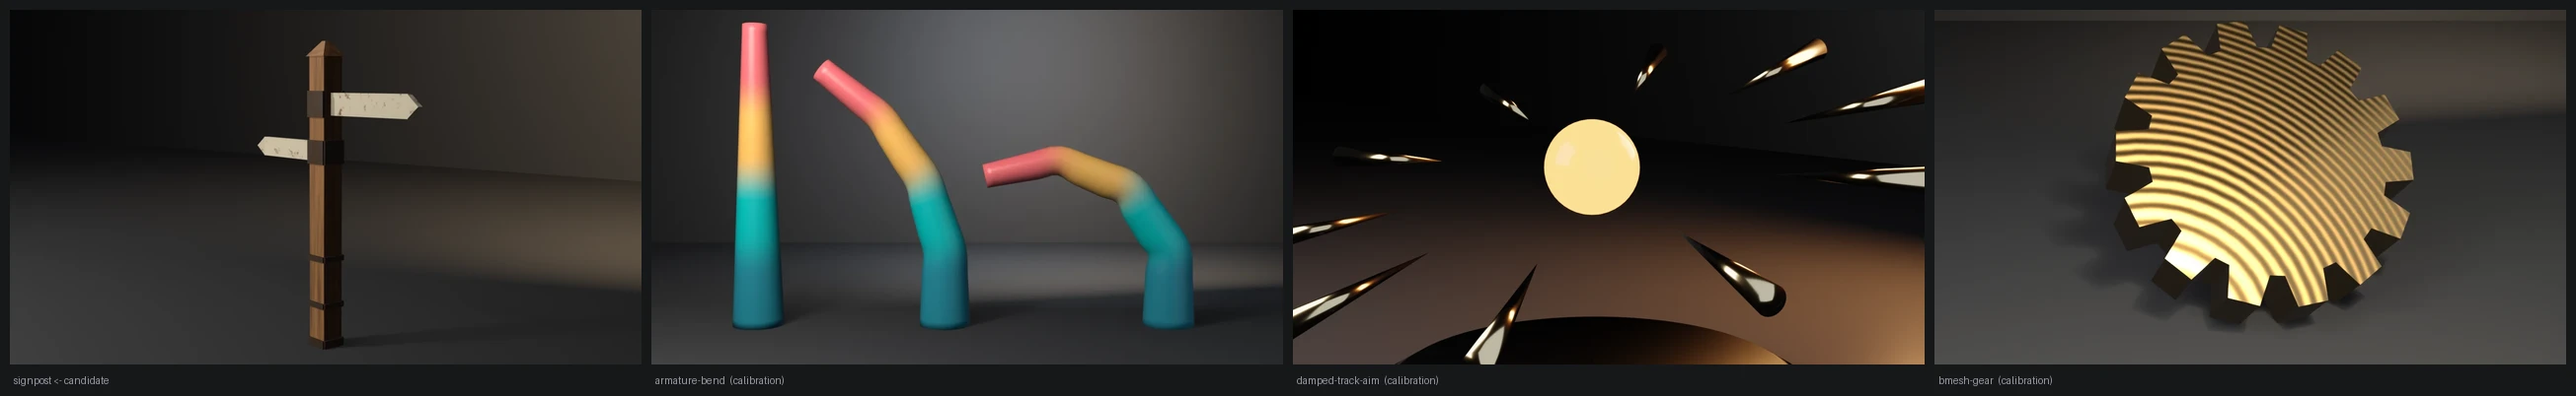
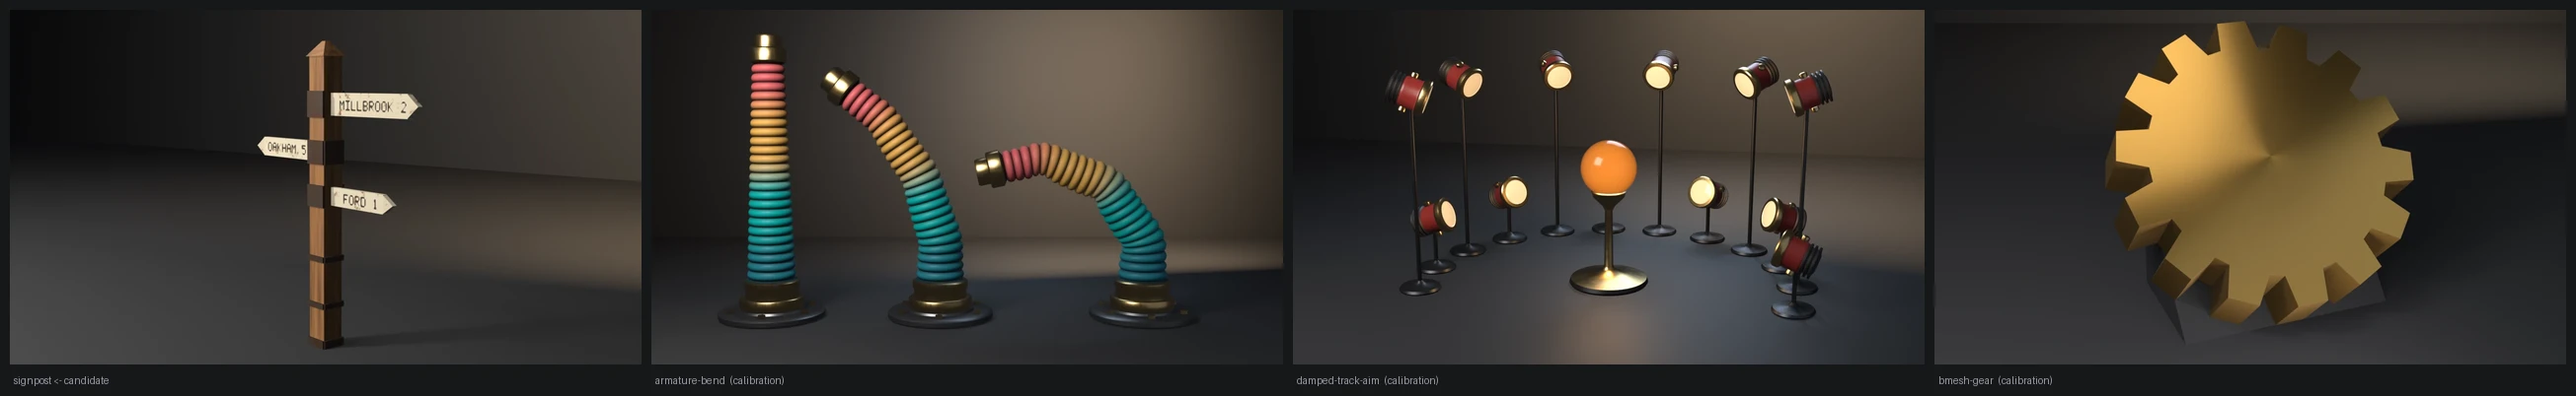
fix(showcase): redesign signpost as a lettered three-finger crossroads post
The signpost read as one bare post with two blank boards. It now carries
a third finger (FORD, 0.46 m, lower, pointing back the way of the first),
and each board's destination and distance is painted on its front face:
MILLBROOK 2, OAKHAM 5, FORD 1. The lettering is surface only. A 5x7 bitmap
font is painted into a small image covering the boards in object space,
cubic-filtered and thresholded so the glyphs round into brush strokes,
masked to the front (-Y) faces and worn with the paint. The image node is
deselected so the normal bake never targets it. The key and fill lights
are raised to bring the hero into the calibration luma band.

Adds asset_sheet.py SELECT rows for signpost, shipping-crate and
hitching-post, which had none, so the asset-sheet gate can run on them.

Evidence (live runs, local):
- .scratch/blender-5.2.1-windows-x64/blender.exe (Blender 5.2.1 LTS) and
  .scratch/blender-4.5.11-windows-x64/blender.exe (Blender 4.5.11 LTS):
  default exit 0 on both. base_tris 432 (declared 320-480; was 376),
  mat faces metal 126 / board 33 / wood 60, bbox (1.2600, 0.1420, 1.5510)
  unchanged, collider 56 tris (<= 180), boards=3 board_gap 0.005
  strap_gap 0.003 board_dy 0.028, hygiene all zero. LOD r1/r2:
  4.5.11 0.5000/0.2176, 5.2.1 0.4537/0.1620.
- Falsifiers, identical on both versions: --skip-decimate 9,
  --stray-vert 15, --lift-z 16, --short-shoe 16, --gap-board 17
  (gap 0.115), --float-strap 18 (gap 0.056), --yaw-boards 19 (dy 0.0936).
[…]

diff --git a/showcase/signpost/signpost.py b/showcase/signpost/signpost.py
@@ -1,7 +1,7 @@
 """Game-ready timber signpost — a showcase piece, not an example.
 
 Asserts budget conformance of a procedural fingerboard signpost (post,
-two painted boards, iron shoe and straps) after composing shipped
+three painted boards lettered with destinations, iron shoe and straps) after composing shipped
 pipeline pieces: bmesh construction, UVs, three materials, high-to-low
 normal bake, LOD chain, convex collider, Unity glTF export.
 
@@ -53,6 +53,18 @@ BOARD_H_A = 0.112
 BOARD_H_B = 0.100
 BOARD_A = (1.24, 0.62, 1.0)
 BOARD_B = (1.00, 0.54, -1.0)
+# Third finger, lower and shorter, pointing back the way of the first: a
+# crossroads post reads as a junction, not a pair of arrows.
+BOARD_H_C = 0.092
+BOARD_C = (0.78, 0.46, 1.0)
+
+# Painted destinations, one per board (A, B, C). Rendered from a 5x7 bitmap
+# font into a small lettering image sampled in object space on the boards'
+# front (-Y) faces; cubic filtering plus a threshold rounds the pixel
+# glyphs into brush strokes. Surface only: no geometry, no budget moves.
+BOARD_TEXT = ("MILLBROOK 2", "OAKHAM 5", "FORD 1")
+LETTER_PX = 0.0072            # metres per font pixel
+LETTER_REGION = (-0.66, 0.66, 0.68, 1.34)   # object-space x0, x1, z0, z1
 TIP_LEN = 0.070
 TIP_BITE = 0.004
 BAND_Z = 0.22
@@ -250,6 +262,71 @@ def pack_uvs(bm, margin=0.08):
             )
 
 
+def board_specs():
+    """(z, length, sign, height, thickness) per finger board, A B C."""
+    return (
+        (BOARD_A[0], BOARD_A[1], BOARD_A[2], BOARD_H_A, BOARD_T),
+        (BOARD_B[0], BOARD_B[1], BOARD_B[2], BOARD_H_B, BOARD_T * 0.92),
+        (BOARD_C[0], BOARD_C[1], BOARD_C[2], BOARD_H_C, BOARD_T * 0.90),
+    )
+
+
+# 5x7 bitmap glyphs, top row first; only the characters BOARD_TEXT uses.
+GLYPHS = {
+    "A": ("01110", "10001", "10001", "11111", "10001", "10001", "10001"),
+    "B": ("11110", "10001", "10001", "11110", "10001", "10001", "11110"),
+    "D": ("11110", "10001", "10001", "10001", "10001", "10001", "11110"),
+    "F": ("11111", "10000", "10000", "11110", "10000", "10000", "10000"),
+    "H": ("10001", "10001", "10001", "11111", "10001", "10001", "10001"),
+    "I": ("11111", "00100", "00100", "00100", "00100", "00100", "11111"),
+    "K": ("10001", "10010", "10100", "11000", "10100", "10010", "10001"),
+    "L": ("10000", "10000", "10000", "10000", "10000", "10000", "11111"),
+    "M": ("10001", "11011", "10101", "10101", "10001", "10001", "10001"),
+    "O": ("01110", "10001", "10001", "10001", "10001", "10001", "01110"),
+    "R": ("11110", "10001", "10001", "11110", "10100", "10010", "10001"),
+    "1": ("00100", "01100", "00100", "00100", "00100", "00100", "01110"),
+    "2": ("01110", "10001", "00001", "00010", "00100", "01000", "11111"),
+    "5": ("11111", "10000", "11110", "00001", "00001", "10001", "01110"),
+    " ": ("00000",) * 7,
+}
+
+
+def lettering_image():
+    """Paint BOARD_TEXT into a greyscale image covering LETTER_REGION.
+
+    Each board's text is centred on the part of the board clear of its
+    post collar; one image pixel is one font pixel (LETTER_PX metres).
+    """
+    x0, x1, z0, z1 = LETTER_REGION
+    w = int(round((x1 - x0) / LETTER_PX))
+    h = int(round((z1 - z0) / LETTER_PX))
+    buf = [0.0] * (w * h)
+    half = POST_W / 2.0
+    for (z, length, sign, _bh, _bt), text in zip(board_specs(), BOARD_TEXT):
+        # start clear of the collar plus a margin, so the post does not hide
+        # the first letters of the far board in a three-quarter view
+        inner = sign * (half + IRON_T + 0.045)
+        outer = sign * (half - TENON + length - TIP_LEN)
+        cx = (inner + outer) / 2.0
+        cols = len(text) * 6 - 1
+        px0 = int(round((cx - x0) / LETTER_PX - cols / 2.0))
+        pz0 = int(round((z - z0) / LETTER_PX - 3.5))
+        for k, ch in enumerate(text):
+            rows = GLYPHS[ch]
+            for r in range(7):
+                for c in range(5):
+                    if rows[r][c] != "1":
+                        continue
+                    px = px0 + k * 6 + c
+                    pz = pz0 + (6 - r)
+                    if 0 <= px < w and 0 <= pz < h:
+                        buf[pz * w + px] = 1.0
+    img = bpy.data.images.new("SignpostLettering", w, h, alpha=False)
+    img.colorspace_settings.name = "Non-Color"
+    img.pixels.foreach_set([c for v in buf for c in (v, v, v, 1.0)])
+    return img
+
+
 def build_signpost_mesh(
     name,
     bevel_offset,
@@ -305,10 +382,7 @@ def build_signpost_mesh(
         yaw = YAW_FAIL if yaw_boards else 0.0
         extra = GAP_BOARD if gap_board else 0.0
         strap_extra = FLOAT_STRAP if float_strap else 0.0
-        specs = (
-            (BOARD_A[0], BOARD_A[1], BOARD_A[2], BOARD_H_A, BOARD_T),
-            (BOARD_B[0], BOARD_B[1], BOARD_B[2], BOARD_H_B, BOARD_T * 0.92),
-        )
+        specs = board_specs()
         for z, length, sign, bh, bt in specs:
             inner = sign * (half - TENON + extra)
             rect_len = length - TIP_LEN
@@ -531,10 +605,56 @@ def board_material(name):
     _sock(paint.inputs, "A_Color").default_value = (0.62, 0.56, 0.42, 1.0)
     _sock(paint.inputs, "B_Color").default_value = (0.74, 0.68, 0.52, 1.0)
     nt.links.new(tone.outputs["Fac"], _sock(paint.inputs, "Factor_Float"))
+
+    # Lettering: object-space XZ -> LETTER_REGION -> image, cubic-filtered and
+    # thresholded into rounded strokes, only on the front (-Y) faces.
+    x0, x1, z0, z1 = LETTER_REGION
+    sep = nt.nodes.new("ShaderNodeSeparateXYZ")
+    nt.links.new(coord.outputs["Object"], sep.inputs["Vector"])
+    uu = nt.nodes.new("ShaderNodeMapRange")
+    uu.inputs["From Min"].default_value = x0
+    uu.inputs["From Max"].default_value = x1
+    nt.links.new(sep.outputs["X"], uu.inputs["Value"])
+    vv = nt.nodes.new("ShaderNodeMapRange")
+    vv.inputs["From Min"].default_value = z0
+    vv.inputs["From Max"].default_value = z1
+    nt.links.new(sep.outputs["Z"], vv.inputs["Value"])
+    uvw = nt.nodes.new("ShaderNodeCombineXYZ")
+    nt.links.new(uu.outputs["Result"], uvw.inputs["X"])
+    nt.links.new(vv.outputs["Result"], uvw.inputs["Y"])
+    letters = nt.nodes.new("ShaderNodeTexImage")
+    letters.image = lettering_image()
+    letters.interpolation = "Cubic"
+    letters.extension = "CLIP"
+    # never the bake target: the normal bake writes into the active, selected
+    # image node of each material, and this one is surface paint
+    letters.select = False
+    nt.nodes.active = bsdf
+    nt.links.new(uvw.outputs["Vector"], letters.inputs["Vector"])
+    stroke = nt.nodes.new("ShaderNodeMapRange")
+    stroke.inputs["From Min"].default_value = 0.38
+    stroke.inputs["From Max"].default_value = 0.52
+    nt.links.new(letters.outputs["Color"], stroke.inputs["Value"])
+    nsep = nt.nodes.new("ShaderNodeSeparateXYZ")
+    nt.links.new(coord.outputs["Normal"], nsep.inputs["Vector"])
+    front = nt.nodes.new("ShaderNodeMath")
+    front.operation = "LESS_THAN"
+    front.inputs[1].default_value = -0.9
+    nt.links.new(nsep.outputs["Y"], front.inputs[0])
+    ink_fac = nt.nodes.new("ShaderNodeMath")
+    ink_fac.operation = "MULTIPLY"
+    nt.links.new(stroke.outputs["Result"], ink_fac.inputs[0])
+    nt.links.new(front.outputs["Value"], ink_fac.inputs[1])
+    ink = nt.nodes.new("ShaderNodeMix")
+    ink.data_type = "RGBA"
+    _sock(ink.inputs, "B_Color").default_value = (0.045, 0.032, 0.024, 1.0)
+    nt.links.new(ink_fac.outputs["Value"], _sock(ink.inputs, "Factor_Float"))
+    nt.links.new(_sock(paint.outputs, "Result_Color"), _sock(ink.inputs, "A_Color"))
+
     mix = nt.nodes.new("ShaderNodeMix")
     mix.data_type = "RGBA"
     nt.links.new(mask.outputs["Color"], _sock(mix.inputs, "Factor_Float"))
-    nt.links.new(_sock(paint.outputs, "Result_Color"), _sock(mix.inputs, "A_Color"))
+    nt.links.new(_sock(ink.outputs, "Result_Color"), _sock(mix.inputs, "A_Color"))
     nt.links.new(grain, _sock(mix.inputs, "B_Color"))
     nt.links.new(_sock(mix.outputs, "Result_Color"), bsdf.inputs["Base Color"])
     return mat
@@ -1144,8 +1264,8 @@ def render_still(low, wood, tex, path, engine):
         ob.rotation_euler = tuple(math.radians(a) for a in rot)
         scene.collection.objects.link(ob)
 
-    light("Key", (-3.6, -5.0, 5.4), 660.0, 4.0, (1.0, 0.94, 0.86), (50, 0, -36))
-    light("Fill", (5.0, -3.4, 2.4), 46.0, 8.0, (0.72, 0.82, 1.0), (62, 0, 50))
+    light("Key", (-3.6, -5.0, 5.4), 980.0, 4.0, (1.0, 0.94, 0.86), (50, 0, -36))
+    light("Fill", (5.0, -3.4, 2.4), 70.0, 8.0, (0.72, 0.82, 1.0), (62, 0, 50))
     light("Wedge", (2.2, 4.0, 3.8), 600.0, 5.5, (1.0, 0.70, 0.40), (-70, 0, 198))
 
     cam_data = bpy.data.cameras.new("Cam")

diff --git a/scripts/asset_sheet.py b/scripts/asset_sheet.py
@@ -71,6 +71,9 @@ SELECT = {
     "fence-kit": (r"^FenceLow$", None),
     "wooden-ladder": (r"^LadderLow$", None),
     "terrain-scatter": (r"^TerrainLow$", None),
+    "shipping-crate": (r"^CrateLow$", None),
+    "signpost": (r"^SignpostLow$", None),
+    "hitching-post": (r"^HitchPostLow$", None),
     "triangulate-tangents": (r"^Buckler(\.Rivets)?$", None),
     "car-mirror-symmetry": (r"^(CarBody|Wheel(Front|Rear)|Headlamp|Taillamp|Grille"
                             r"|DoorMirror|DoorHandle(Front|Rear))$", None),

diff --git a/showcase/signpost/README.md b/showcase/signpost/README.md
@@ -2,8 +2,8 @@
 
 A showcase piece, not an example. Procedural timber fingerboard
 signpost (square post, pyramidal cap from the post half plus overhang,
-two axis-aligned painted boards with wedges cut from the board
-section, iron shoe collar and U-wrap straps) then the shipped
+three axis-aligned painted boards lettered with their destinations,
+with wedges cut from the board section, iron shoe collar and U-wrap straps) then the shipped
 pipeline: unique-cell UVs, Cycles high-to-low normal bake, LOD chain,
 convex collider, Unity glTF export.
 
@@ -24,7 +24,7 @@ witness an API contract. "It rendered without error" is not a check.
 Hygiene combinatorics match `examples/mesh-hygiene-audit` (copied, not
 imported).
 
-Intended size: 1.48 m post, boards 0.62 m and 0.54 m, 0.118 m post
+Intended size: 1.48 m post, boards 0.62 m, 0.54 m and 0.46 m, 0.118 m post
 stock; outer AABB 1.260 × 0.142 × 1.551 m.
 
 ## Budgets
@@ -32,16 +32,16 @@ stock; outer AABB 1.260 × 0.142 × 1.551 m.
 Declared as named constants; every gate **recomputes** from the mesh,
 materials, UVs, evaluated LOD, collider, or export file.
 
-| Axis | Declared | Measured (4.5.11 / 5.1.2 / 5.2.1) |
+| Axis | Declared | Measured (4.5.11 / 5.2.1) |
 | --- | --- | --- |
-| Base triangles | 320–480 | 376 / 376 / 376 |
-| LOD1 ratio | 0.32–0.62 of base | 0.5000 / 0.5000 / 0.4681 |
-| LOD2 ratio | 0.10–0.35 of base | 0.2181 / 0.2181 / 0.1649 |
-| Materials | exactly 3 distinct, ≥24 metal, ≥12 board, ≥12 wood | 3 slots, 108 metal, 22 board, 60 wood |
+| Base triangles | 320–480 | 432 / 432 |
+| LOD1 ratio | 0.32–0.62 of base | 0.5000 / 0.4537 |
+| LOD2 ratio | 0.10–0.35 of base | 0.2176 / 0.1620 |
+| Materials | exactly 3 distinct, ≥24 metal, ≥12 board, ≥12 wood | 3 slots, 126 metal, 33 board, 60 wood |
 | UVs | in `0..1`, AABB overlap ≤ 1e-5 | in range, overlap 0 |
 | Outer AABB | (1.260, 0.142, 1.551) m ± 0.015 | (1.2600, 0.1420, 1.5510), zmin 0 |
-| Collider tris | ≤ 180 | 52 |
-| Export | written, size > 0 | 35648 / 35648 / 35640 bytes |
+| Collider tris | ≤ 180 | 56 |
+| Export | written, size > 0 | 41168 / 41232 bytes |
 
 Base triangles dropped from **504 to 376** in the quality pass: glued
 diamond cubes and a solid shoe block became wedges and a four-plate
@@ -66,6 +66,19 @@ own tone and grain. The stage grid grew from 14 to 60 m, because the
 wall's left edge showed in the corner of the hero. The temp `.glb` is
 removed after its size is measured. With no new geometric defect, there
 is no new budget.
+
+The second pass added a third finger (FORD, 0.46 m, pointing back the
+way of the first, below the other two) so the post reads as a crossroads,
+and painted each board's destination and distance on its front face.
+The lettering is surface: a 5×7 bitmap font painted into a small image
+covering the boards in object space, cubic-filtered and thresholded so
+the pixel glyphs round into brush strokes, masked to the front (−Y)
+faces and worn through with the paint. The third board moved the
+budgets it should: base triangles 376 → 432 (inside the declared
+320–480), metal faces 108 → 126 for its collar, board faces 22 → 33,
+collider 52 → 56 tris, and `boards` in the joint audit 2 → 3. The outer
+AABB is unchanged: the new board is shorter than both the others and
+sits between existing bands. Every falsifier still exits its code.
 
 ### Hygiene
 
@@ -93,7 +106,8 @@ Recomputed from the generated mesh, not asserted about the script.
 ### Falsifiers
 
 Each violates one named budget. All were run on 4.5.11, 5.1.2 and 5.2.1
-and returned the same code on each.
+and returned the same code on each; after the second pass they were
+re-run on 4.5.11 and 5.2.1 and still do.
 
 | Flag | Budget violated | Exit |
 | --- | --- | --- |

diff --git a/README.md b/README.md
@@ -127,7 +127,7 @@ Budget-conformance props. Not examples. Conventions: [`showcase/README.md`](show
   <a href="showcase/hitching-post/"><img src="showcase/hitching-post/preview.webp" width="24%" alt="Hitching post: a square timber post with a pyramidal cap, cross-arm, iron bands wrapped around it, and two hitching rings on a dark studio floor" /></a>
   <a href="showcase/grindstone/"><img src="showcase/grindstone/preview.webp" width="24%" alt="Grindstone: a stone wheel on a timber A-frame with an iron axle, hubs, crank, and tray on a dark studio floor" /></a>
   <a href="showcase/hand-pump/"><img src="showcase/hand-pump/preview.webp" width="24%" alt="Hand pump: a matte black cast-iron village pump on a stepped wooden plinth with a spout and handle on a dark studio floor" /></a>
-  <a href="showcase/signpost/"><img src="showcase/signpost/preview.webp" width="24%" alt="Signpost: a timber post with two painted fingerboards, iron straps, and a pyramidal cap on a dark studio floor" /></a>
+  <a href="showcase/signpost/"><img src="showcase/signpost/preview.webp" width="24%" alt="Signpost: a timber crossroads post with three painted fingerboards lettered MILLBROOK 2, OAKHAM 5 and FORD 1, iron straps, and a pyramidal cap on a dark studio floor" /></a>
   <a href="showcase/chopping-block/"><img src="showcase/chopping-block/preview.webp" width="24%" alt="Chopping block: a bark-sided log round with growth rings and drying checks on its sawn top, a riveted iron hoop, and a felling axe buried in the top, on a dark studio floor" /></a>
   <a href="showcase/wooden-bucket/"><img src="showcase/wooden-bucket/preview.webp" width="24%" alt="Wooden bucket: a coopered pail with a three-strand rope bail through iron ear rings and chord-lofted iron hoops on a dark studio floor" /></a>
   <a href="showcase/wall-torch/"><img src="showcase/wall-torch/preview.webp" width="24%" alt="Wall torch: a dressed stone plaque with an iron plate and arm holding a cup, a leaning wooden torch with a pitch-wrapped head and a bright flame, on a dark studio floor" /></a>
